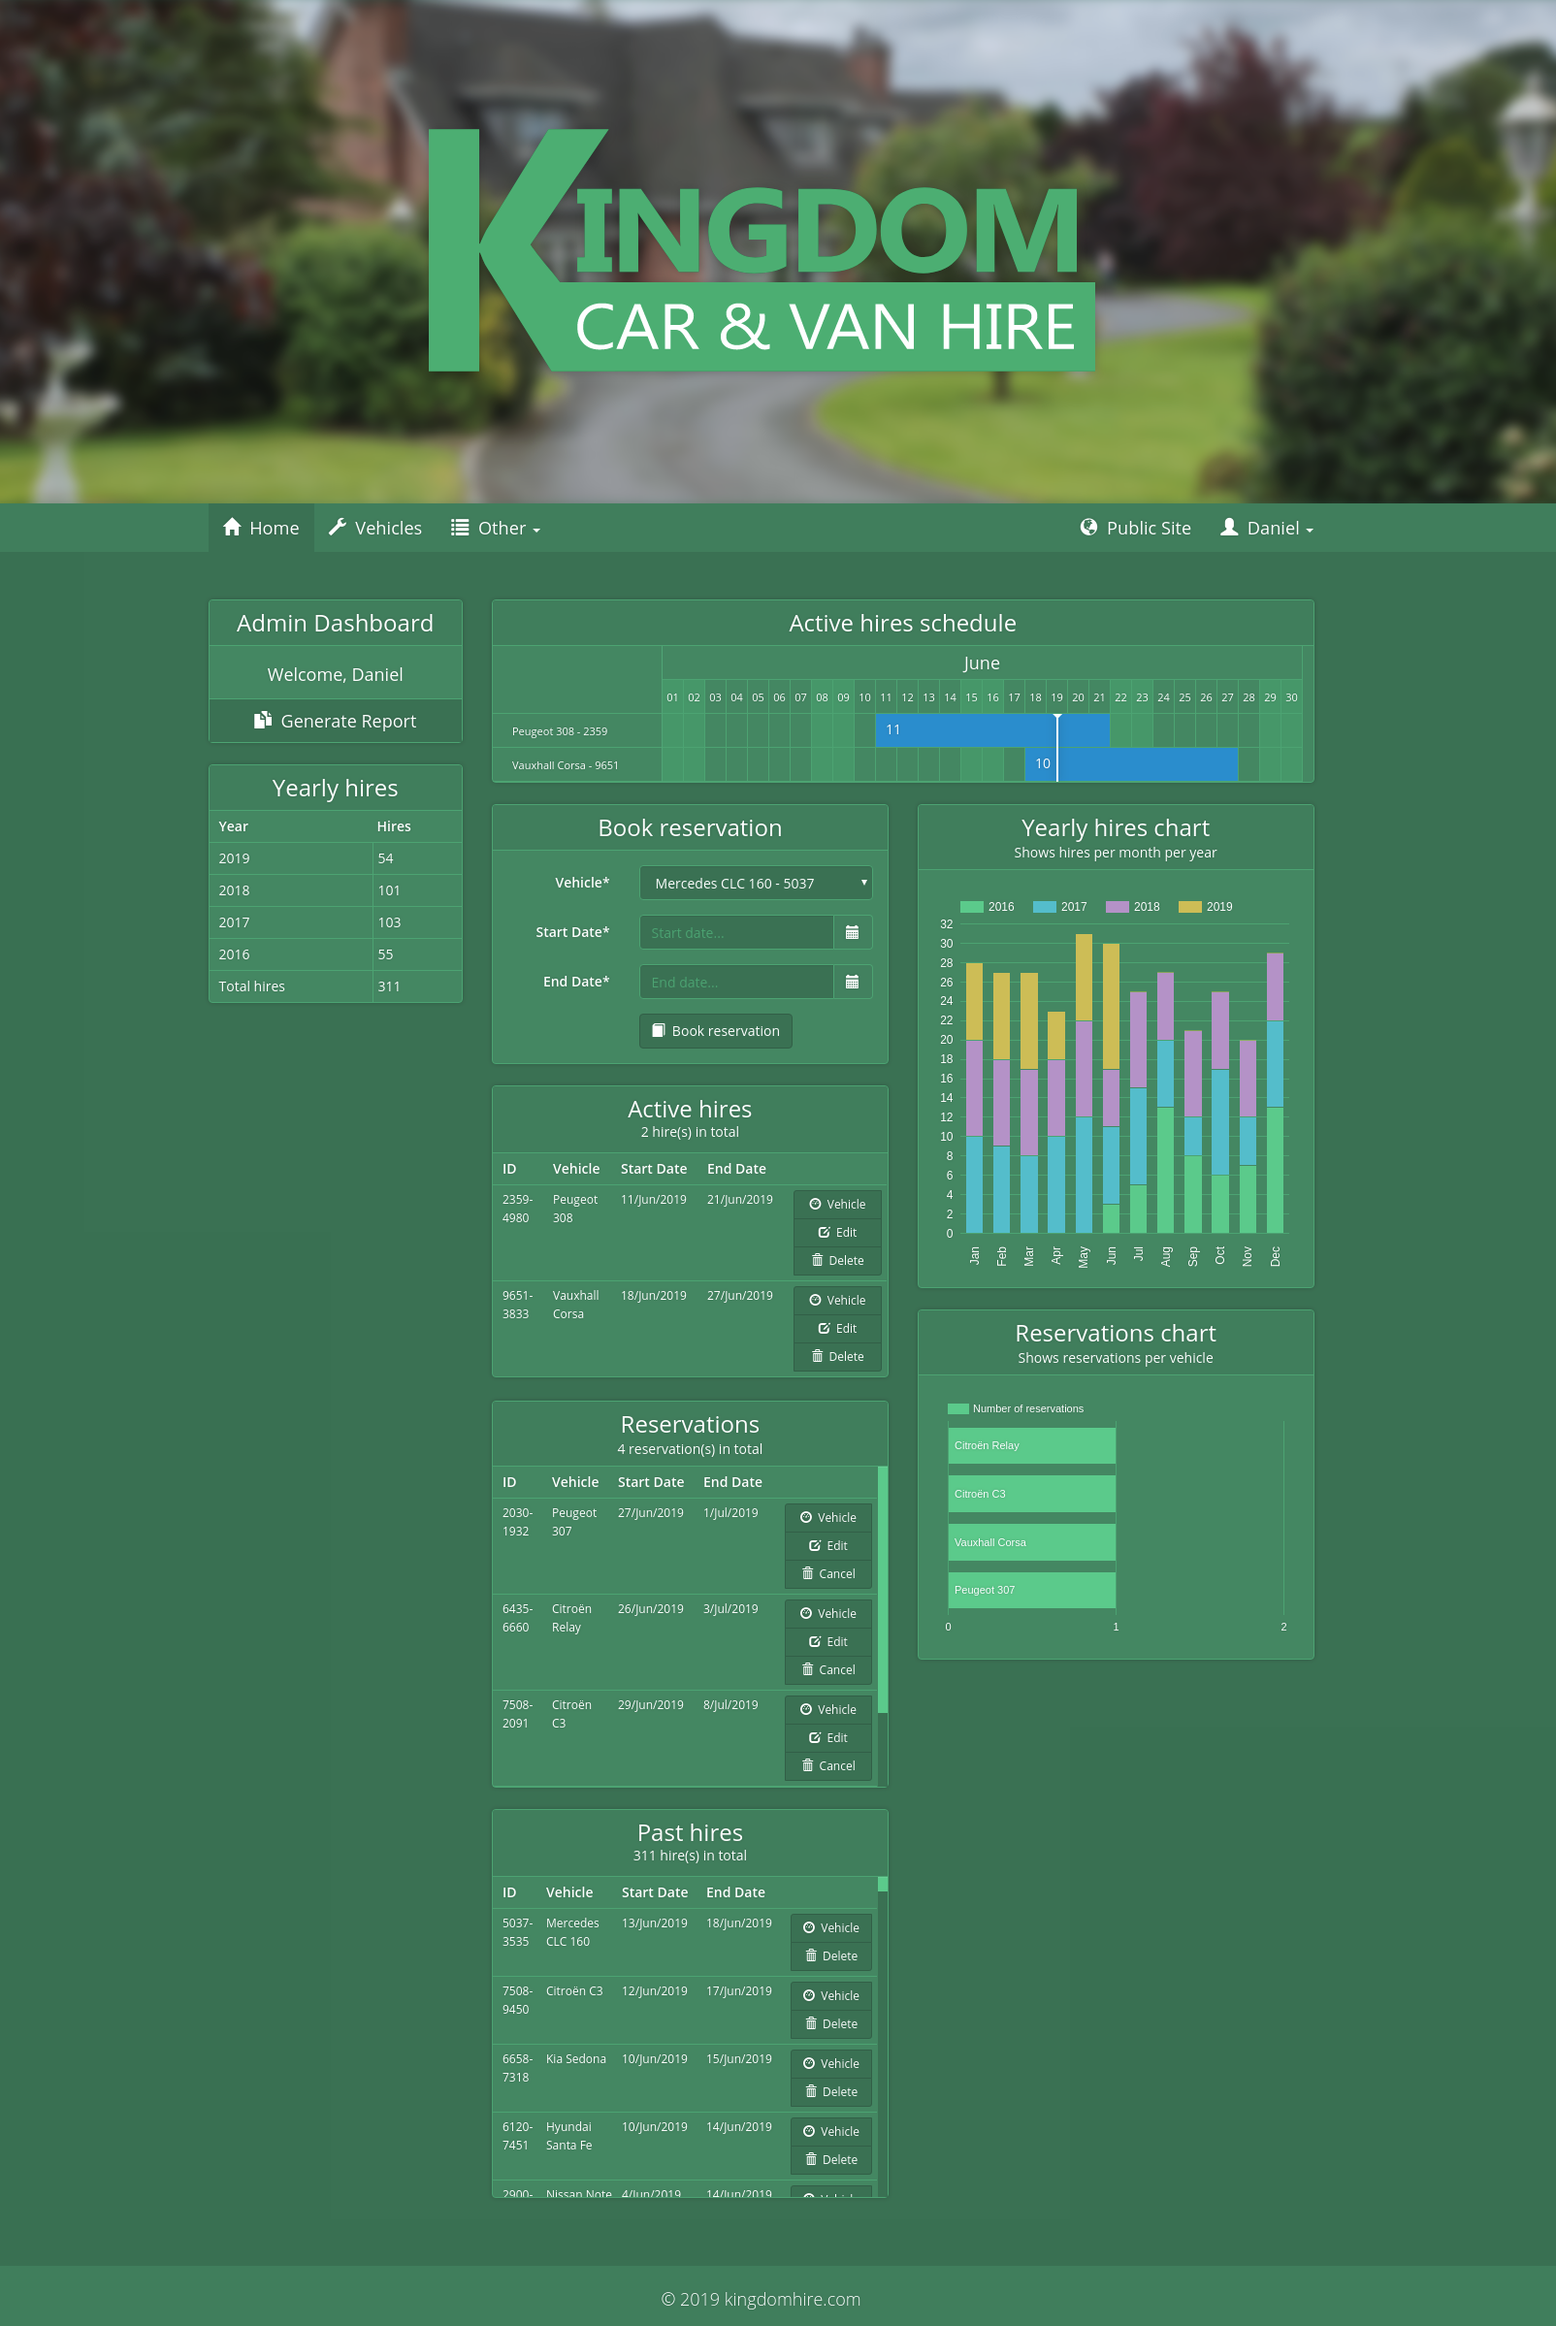
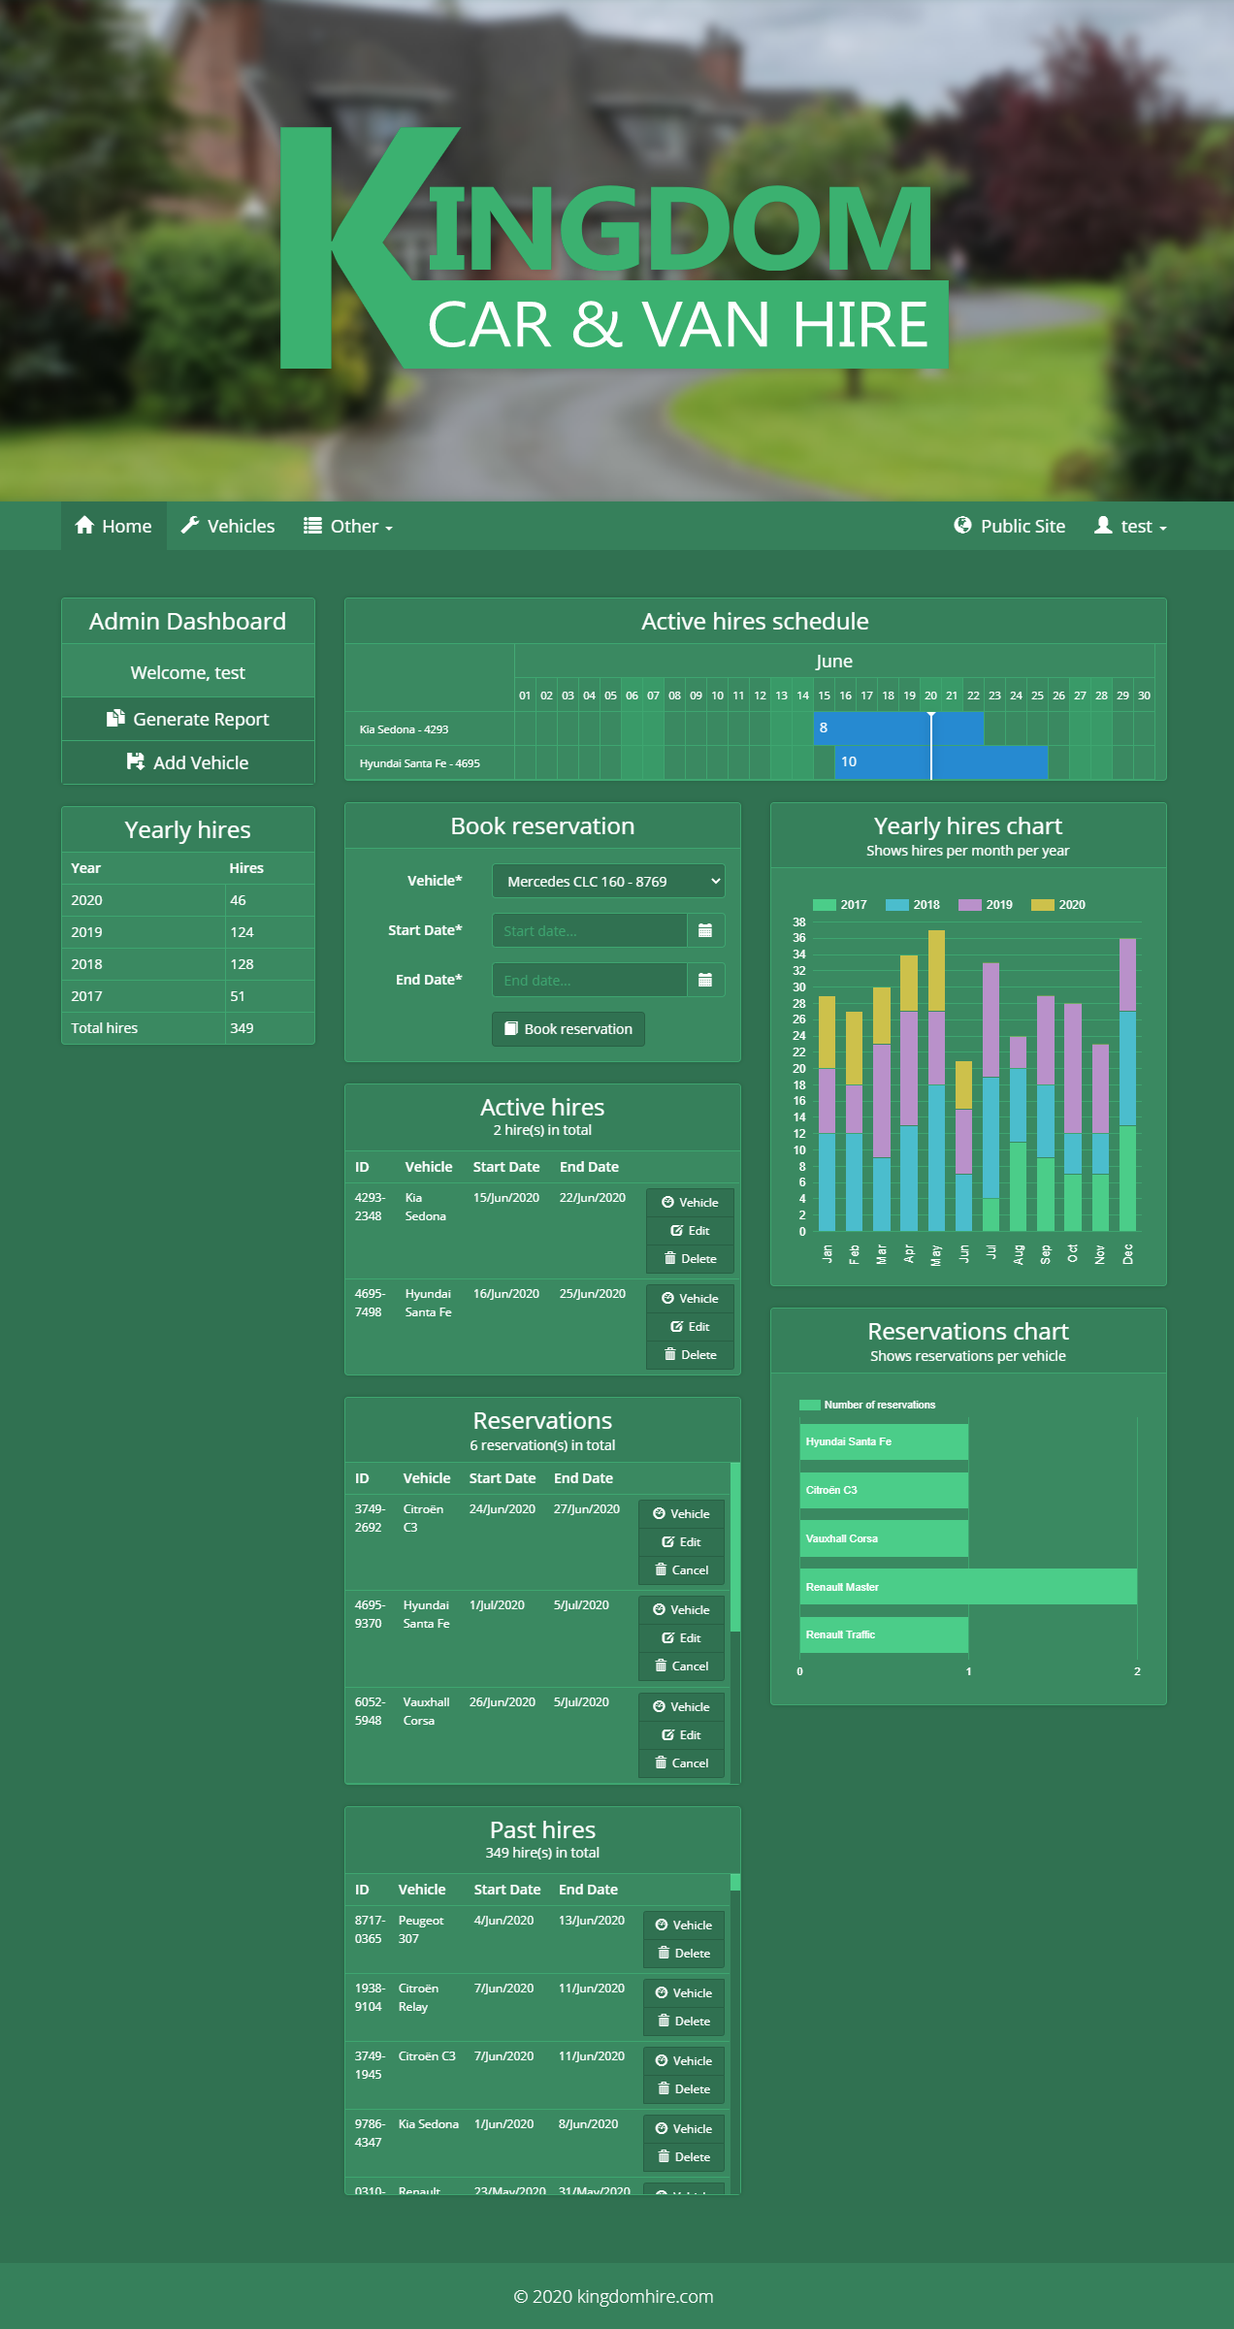
Updated user guide

diff --git a/user_guide/GUIDE.md b/user_guide/GUIDE.md
@@ -25,28 +25,30 @@
 
 
 ## Login to admin dashboard
-1. After completing the installation steps, navigate to http://homestead.test/login in your browser
+1. After completing the installation steps, navigate to http://homestead.test/login or http://www.kingdomhire.com/login in your browser
 
 ![Login screen](login-screen.png)
 
-2. Input your test email and password that you should have created with the `php artisan user:create` command
+2. Input your email and password that you should have created with the `php artisan user:create` command
 
 ![](admin-dashboard.png)
 
-After logging in, you should be directed to the **admin dashboard** (http://homestead.test/admin). It should look similar to the above screenshot if you seeded the application with `php artisan migrate --seed` or `php artisan db:seed` command  
+After logging in, you should be directed to the **admin dashboard** (http://homestead.test/admin or http://www.kingdomhire.com/admin). It should look similar to the above screenshot if you populated the application with the `php artisan migrate --seed` or `php artisan db:seed` command  
 
 
 ## Vehicles
 
-1. Navigate to http://homestead.test/admin/vehicles
+1. Navigate to http://homestead.test/admin/vehicles or http://www.kingdomhire.com/admin/vehicles
 
 ![](vehicles-dashboard.png)
 
 ### Create a vehicle
 
-1. Click on the `Add Vehicle` button on the vehicles page
+1. Click on the `Add Vehicle` button on the vehicles page  
+(Can also add a vehicle from the admin home page)
 
 <img src="add-vehicle-btn.png" alt="alt text">
+<img src="add-vehicle-btn-2.png" alt="alt text">
 
 2. Fill out the form and click the `create` button
 
